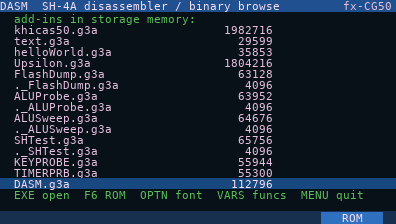
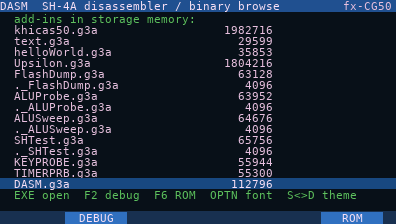
DASM: prepare for a public release
README: the debugger, the light theme, step-by-step build instructions
(Linux/WSL, macOS), installing, helper scripts, credits (the casio-cg50
emulator, gint/fxSDK, libfxcg, DejaVu). New screenshots: the light theme
and the debugger. MIT LICENSE. Comments name the casio-cg50 emulator
instead of "the parent project".

Changed region(s): [[0.2121, 0.8438, 0.9091, 0.9062], [0.1515, 0.9375, 0.3333, 1.0]]

diff --git a/tools/readme_shots.py b/tools/readme_shots.py
@@ -6,7 +6,9 @@ script; each shot is the add-in's whole 396x224 frame. DASM browses only its own
 (DASM.g3a itself), so no Casio code is shown. Needs the emulator project (path in
 tools/emulator_path.txt, see emulator_path.py) with a 32 MB dump of your own calculator
 (os/flash_dump/flash_full_32mb.bin + cg50_state_32mb.bin there). The picker position in SCRIPT
-assumes that dump's file list.  Run:  python3 tools/readme_shots.py
+assumes that dump's file list. The debugger shots come from the emulator's TestMonitorDasmGint
+probe: DASM's F2 screen, then its monitor stopped inside KeyProbe (a small gint add-in of ours
+on that dump).  Run:  python3 tools/readme_shots.py
 """
 import os
 import shutil
@@ -21,22 +23,26 @@ DASM = os.path.normpath(os.path.join(HERE, ".."))
 OUT = os.path.join(DASM, "docs", "img")
 
 # key = "row-col" (re/KEYMAP.md). The first DOWN is swallowed while DASM starts up.
-DOWN, UP, EXE, EXIT = "2-7", "3-7", "2-1", "3-7"
+DOWN, UP, EXE, EXIT = "2-7", "1-8", "2-1", "3-7"
 F1, F2, F3, F4, F5, F6 = "6-9", "5-9", "4-9", "3-9", "2-9", "1-9"
-OPTN, VARS, XOT = "5-8", "4-8", "6-6"
+OPTN, VARS, XOT, FD = "5-8", "4-8", "6-6", "5-5"
 
 # (key, screenshot name or None); DASM.g3a is entry 20 of the picker on the 32 MB dump
 SCRIPT = [(DOWN, None)] * 20 + [(DOWN, "picker"), (EXE, None), (DOWN, "listing"),
+          (FD, "listing-light"), (FD, None),
           (F3, "hex"), (F3, None), (F5, "header"), (F5, None), (OPTN, "small-font"), (OPTN, None),
           (VARS, None), (DOWN, None), (DOWN, None), (DOWN, "functions"), (EXE, "function"),
           (XOT, "references")]
 
+# the debugger: TestMonitorDasmGint's panel shots ($TMPDIR/cg50_mondbg_gint_<shot>.png)
+DEBUGGER = [("01_explain", "debugger-arm"), ("06_gint_step", "debugger")]
+
 
 def main():
-    parent = emulator_path()
+    emu = emulator_path()
     keys = ",".join(k for k, _ in SCRIPT)
     env = dict(os.environ, DASM_LAUNCH="1", DASM_SWAP=os.path.join(DASM, "DASM.g3a"), DASM_KEYS=keys)
-    r = subprocess.run(["go", "-C", os.path.join(parent, "emu_go"), "test", "-tags", "probe",
+    r = subprocess.run(["go", "-C", os.path.join(emu, "emu_go"), "test", "-tags", "probe",
                         "-run", "TestDasmReal", "-count=1", "."], env=env, capture_output=True, text=True)
     if r.returncode != 0:
         sys.exit(r.stdout[-3000:] + r.stderr[-3000:])
@@ -47,6 +53,15 @@ def main():
             src = os.path.join(tmp, f"cg50_real_{i + 1:02d}_full.png")
             shutil.copyfile(src, os.path.join(OUT, name + ".png"))
             print("wrote docs/img/" + name + ".png")
+
+    env = dict(os.environ, MONDBG_DASM=os.path.join(DASM, "DASM.g3a"))
+    r = subprocess.run(["go", "-C", os.path.join(emu, "emu_go"), "test", "-tags", "probe",
+                        "-run", "^TestMonitorDasmGint$", "-count=1", "."], env=env, capture_output=True, text=True)
+    if r.returncode != 0:
+        sys.exit(r.stdout[-3000:] + r.stderr[-3000:])
+    for shot, name in DEBUGGER:
+        shutil.copyfile(os.path.join(tmp, f"cg50_mondbg_gint_{shot}.png"), os.path.join(OUT, name + ".png"))
+        print("wrote docs/img/" + name + ".png")
 
 
 if __name__ == "__main__":

diff --git a/tools/fetch_syscalls.py b/tools/fetch_syscalls.py
@@ -64,11 +64,11 @@ def main():
     else:
         names = collect()
         json.dump({str(k): v for k, v in sorted(names.items())}, open(CACHE, "w"), indent=1)
-    # A few numbers libfxcg lacks / we verified ourselves (parent re/syscall.py)
+    # A few numbers libfxcg lacks / we verified ourselves (the casio-cg50 emulator's re/syscall.py)
     extra = {0x025F: "Bdisp_PutDisp_DD", 0x0260: "Bdisp_PutDisp_DD_stripe", 0x0270: "Bdisp_SetPoint_VRAM",
              0x0272: "Bdisp_AllClr_VRAM", 0x0921: "Bdisp_PutDispArea_DD", 0x090F: "GetKey",
              0x0EAB: "PutKeyCode", 0x1E50: "memset", 0x1163: "malloc", 0x0E6B: "RTC_GetTicks"}
-    # libfxcg is the authority; add a parent-project extra only when it contradicts nothing
+    # libfxcg is the authority; add one of these extras only when it contradicts nothing
     # (neither its number nor its name is already listed).
     have_names = set(names.values())
     for k, v in extra.items():

diff --git a/src/sh4dec.h b/src/sh4dec.h
@@ -1,5 +1,6 @@
-/* sh4dec — SH-4 / SH-4A instruction decoder (big-endian), C port of the parent
- * project's re/sh4dis.py with the full FPU set and the SH-4A extensions added.
+/* sh4dec — SH-4 / SH-4A instruction decoder (big-endian), C port of re/sh4dis.py in the
+ * casio-cg50 emulator (github.com/hexbinoct/casio-cg50), with the full FPU set and the SH-4A
+ * extensions added.
  * Pure: no globals, no allocation; memory is reached through a read callback so
  * the same code serves the on-device viewer and the host verification harness. */
 #ifndef SH4DEC_H

diff --git a/README.md b/README.md
@@ -5,8 +5,13 @@ Pick any add-in (`.g3a`) in storage memory, or the calculator's OS ROM itself, a
 it as a colour disassembly listing. Follow calls and jumps, then come back. See every function
 in the file and, for any function or address, everything that calls or references it. Read the
 literal pools, see which OS syscall is being called, and switch to a hex dump or a strings list.
+It also has a **debugger**: start any add-in under it and it stops at its first instruction, so
+you can step through it, set a breakpoint and read the CPU registers.
 
-The screenshots below show DASM disassembling itself.
+DASM was developed and tested largely on the [casio-cg50](https://github.com/hexbinoct/casio-cg50)
+fx-CG50 emulator, which runs the calculator's own OS. Every screen below is a screenshot from it.
+DASM is disassembling itself in all of them except the debugger, which is stopped inside a small
+test add-in of ours.
 
 | | |
 |---|---|
@@ -16,8 +21,10 @@ The screenshots below show DASM disassembling itself.
 | **Functions (VARS):** every function found, with its size | **References (X,θ,T):** everything that calls this function, and from where |
 | ![A function in the listing](docs/img/function.png) | ![Hex view](docs/img/hex.png) |
 | **Function starts** are marked by a line and their name, and literal pools show as data | **Hex view (F3):** synced to the listing, with ASCII |
-| ![Header pane](docs/img/header.png) | |
-| **Header (F5):** name, version, sizes, checksum, the add-in's icon | |
+| ![Header pane](docs/img/header.png) | ![Light theme](docs/img/listing-light.png) |
+| **Header (F5):** name, version, sizes, checksum, the add-in's icon | **Light theme (S⇔D):** easier to read on the calculator's own screen |
+| ![The debugger, stopped](docs/img/debugger.png) | ![Starting the debugger](docs/img/debugger-arm.png) |
+| **Debugger:** registers (changed ones in yellow), flags, and the code with PC marked | **F2 in the file picker** arms the debugger for the next add-in you open |
 
 ## What it can do
 
@@ -49,6 +56,8 @@ The screenshots below show DASM disassembling itself.
 - **Readable colours:** calls, branches, returns and literals have their own colours, and delay
   slots are indented.
 - **Hex view (F3), strings (F4), header (F5), go to address (F2).**
+- **Debugger (F2 in the file picker):** stops the next add-in you open at its first instruction;
+  then single step, step over calls, one breakpoint, continue. Described below.
 - **Font setting (OPTN):** switches the listing font, described below.
 - **Light or dark theme (S⇔D):** the dark theme is the default; the light one is easier to read
   on the calculator's own screen. DASM remembers the choice, and the debugger uses it too.
@@ -99,6 +108,39 @@ takes about 10 s; the 12 MB OS ROM about 15 s. A progress bar shows while it run
 stops it and keeps what was found. Add-ins over 256 KB and the ROM are analysed the first time
 you press VARS or X,θ,T.
 
+## Debugger
+
+The debugger uses the CPU's own breakpoint hardware (the SH7305's User Break Controller), so the
+program being debugged is not modified.
+
+1. In DASM's file picker, press **F2**. DASM copies a small resident *monitor* (about 25 KB) into
+   a part of RAM that neither the OS nor add-ins use (`0x8C4E0000`–`0x8C7FFFFF`, checked on a
+   real calculator), and explains the keys.
+2. Press **EXE**. DASM sets a breakpoint on `0x00300000`, where every add-in starts, and opens the
+   MAIN MENU.
+3. Open any add-in. It stops at its first instruction, and the monitor shows the registers, the
+   status flags and the code around PC.
+
+| Key | On a stop |
+|---|---|
+| F1 | single step (one instruction; a branch together with its delay slot) |
+| F2 | step over a call (`bsr`/`jsr`/`bsrf`): run it and stop after its delay slot |
+| UP / DOWN, LEFT / RIGHT | move the cursor / a page through the code |
+| F3 | set the breakpoint at the cursor (F3 on it again removes it) |
+| EXE | continue until the breakpoint |
+| EXIT | detach: the add-in runs on normally |
+| S⇔D | switch the theme |
+
+Going back to DASM from the MAIN MENU, instead of opening another add-in, disarms the debugger.
+
+Limits, for now: one breakpoint (the controller has two channels, and stepping needs the other),
+and the add-in's timers and interrupts are paused while it is stopped. Verified on a real fx-CG50
+with OS 3.60. If the calculator ever freezes, the RESTART button on its back recovers it without
+losing anything.
+
+The **sin** key runs the debugger's self-test: a breakpoint in DASM's own code, with the registers
+and single steps.
+
 ## Keys
 
 | Key | In the listing |
@@ -118,28 +160,113 @@ you press VARS or X,θ,T.
 | S⇔D | switch the theme (dark / light) |
 | MENU | back to the calculator's MAIN MENU |
 
+In the file picker: EXE opens the file, F2 starts the debugger, F6 opens the OS ROM.
+
 ## Installing
 
-Copy `DASM.g3a` to the calculator in USB mass-storage mode, then start DASM from the MAIN MENU.
+1. Connect the calculator by USB and choose **USB Flash** (F1) on the calculator's screen.
+2. Copy `DASM.g3a` to the calculator's drive (the top folder).
+3. Eject the drive, then start DASM from the MAIN MENU.
+
+On macOS, copy it with `cp -X DASM.g3a "/Volumes/<drive>/"`. A copy from Finder can add a hidden
+`._DASM.g3a` file next to it. Delete that file: it would show up in the MAIN MENU and in DASM's
+file picker.
 
 ## Building
 
-The add-in uses [gint](https://gitea.planet-casio.com/Lephenixnoir/gint) 2.11 and the
-[fxSDK](https://gitea.planet-casio.com/Lephenixnoir/fxsdk). With both installed, run
-`fxsdk build-cg` in this folder; the output is `DASM.g3a`. fxconv needs Pillow in the first
-`python3` on the PATH.
+`DASM.g3a` is in the repository, ready to copy. You only need to build it if you change the code.
 
-Helper scripts:
+DASM is a [gint](https://git.planet-casio.com/Lephenixnoir/gint) add-in (gint 2.11 or newer), built
+with the [fxSDK](https://git.planet-casio.com/Lephenixnoir/fxsdk). Both are installed with
+GiteaPC, Planète Casio's package tool, which builds a SuperH cross-compiler (`sh-elf-gcc`) from
+source. Allow 30–60 minutes for that the first time.
+
+**1. Prerequisites.** Linux, or Windows with WSL (Ubuntu). On Debian/Ubuntu:
+
+```sh
+sudo apt install curl git python3 python3-pil build-essential cmake pkg-config flex texinfo \
+    libmpfr-dev libmpc-dev libgmp-dev libpng-dev libppl-dev libusb-1.0-0-dev libudisks2-dev libglib2.0-dev
+```
+
+**2. GiteaPC, the fxSDK, the compiler and gint:**
+
+```sh
+curl "https://git.planet-casio.com/Lephenixnoir/GiteaPC/raw/branch/master/install.sh" -o /tmp/giteapc-install.sh
+bash /tmp/giteapc-install.sh
+giteapc install Lephenixnoir/fxsdk Lephenixnoir/sh-elf-binutils Lephenixnoir/sh-elf-gcc
+giteapc install Lephenixnoir/OpenLibm Vhex-Kernel-Core/fxlibc Lephenixnoir/gint
+```
+
+The tools go into `~/.local/bin`, which must be on your `PATH`; the installer offers to add it.
+The fxSDK's own README covers other systems and the problems people hit.
+
+**3. Build DASM:**
+
+```sh
+git clone https://github.com/hexbinoct/cg50-dasm.git
+cd cg50-dasm
+fxsdk build-cg
+```
+
+The result is `DASM.g3a` in that folder. The build also compiles the debugger's monitor
+(`monitor/`) into `monitor.bin` and embeds it in the add-in. If a build was configured on another
+machine, delete `build-cg/` and run `fxsdk build-cg` again.
+
+**macOS** works with a few extra steps, because the macOS defaults trip up the toolchain build:
+- install the build dependencies with Homebrew (`python3 cmake libusb libpng pkg-config gmp mpfr
+  libmpc texinfo bash gnu-getopt`), and put Homebrew's `bash` and `gnu-getopt` before the system
+  ones on your `PATH` (the fxSDK scripts need bash 4 and GNU `getopt`);
+- build on a case-sensitive volume, because GCC and binutils fail on the default case-insensitive
+  disk. An APFS volume in the same container costs no fixed space:
+  `diskutil apfs addVolume disk3 "Case-sensitive APFS" fxsdkbuild`, then set
+  `GITEAPC_HOME=/Volumes/fxsdkbuild/giteapc-repos` before the `giteapc` commands;
+- the first `python3` on your `PATH` must have Pillow (`python3 -m pip install pillow`), because
+  the fxSDK's asset converter needs it for DASM's font.
+- with Xcode's clang 21 (2026), three more fixes were needed: `--with-system-zlib` added to the
+  configure flags in `sh-elf-binutils/configure.sh` and `sh-elf-gcc/configure.sh`, and a
+  `giteapc-config.make` in the fxsdk repository containing
+  `FXSDK_CONFIGURE := -DFXLINK_DISABLE_UDISKS2=1` (UDisks2 exists only on Linux).
+
+## Helper scripts
+
+None of these is needed to build DASM.
 
 | Script | What it does |
 |---|---|
-| `python3 make_icons.py` | the menu icons |
-| `python3 tools/make_font.py` | regenerates `src/font_aa.h` and writes a preview |
-| `python3 tools/fetch_syscalls.py` | the syscall names |
+| `python3 make_icons.py` | draws the menu icons (`assets-cg/icon-*.png`) |
+| `python3 tools/make_font.py` | regenerates the large font, `src/font_aa.h`, from DejaVu Sans Mono |
+| `python3 tools/fetch_syscalls.py` | regenerates the syscall names, `src/syscall_names.h`, from libfxcg |
+| `python3 tools/readme_shots.py` | retakes the README screenshots on the emulator |
+| `python3 tools/verify_decoder.py` | compares DASM's decoder with the emulator's disassembler |
+| `python3 tools/proto_funcs.py` | the function-detection prototype and its score |
+
+The last three need the [casio-cg50](https://github.com/hexbinoct/casio-cg50) emulator: put the
+path of your checkout in `tools/emulator_path.txt` (see `tools/emulator_path.example.txt`). Anything
+that runs the calculator's OS needs a flash dump of your own calculator, set up as the emulator's
+README describes. Neither repository contains any Casio firmware.
 
 ## Status and next steps
 
 Verified on a real fx-CG50 (OS 3.60): the browser, including reading every add-in's contents,
-function detection and cross-references.
-Next: bookmarks and comments saved to a side file (which could also cache the
-function table, so the OS ROM doesn't take 15 s each time), and an overview bar of the whole file.
+function detection, cross-references, both themes and the debugger.
+
+Next:
+- **Debugger:** unlimited breakpoints (by running the add-in's code from a copy in RAM),
+  watchpoints on memory, and DASM's full listing on a stop.
+- **Browser:** bookmarks and comments saved to a side file (which could also cache the function
+  table, so the OS ROM doesn't take 15 s each time), and an overview bar of the whole file.
+
+## Credits
+
+- [casio-cg50](https://github.com/hexbinoct/casio-cg50), the fx-CG50 emulator that DASM was
+  developed and tested on: the add-in, its debugger and the decoder were all run there first.
+- [gint](https://git.planet-casio.com/Lephenixnoir/gint) and the
+  [fxSDK](https://git.planet-casio.com/Lephenixnoir/fxsdk) by Lephenixnoir: the kernel DASM runs
+  on, and its build tools.
+- [libfxcg](https://github.com/Jonimoose/libfxcg): the syscall names.
+- [DejaVu Sans Mono](https://dejavu-fonts.github.io/): the large font (Bitstream Vera licence and
+  public domain).
+
+## Licence
+
+MIT: see [LICENSE](LICENSE).
